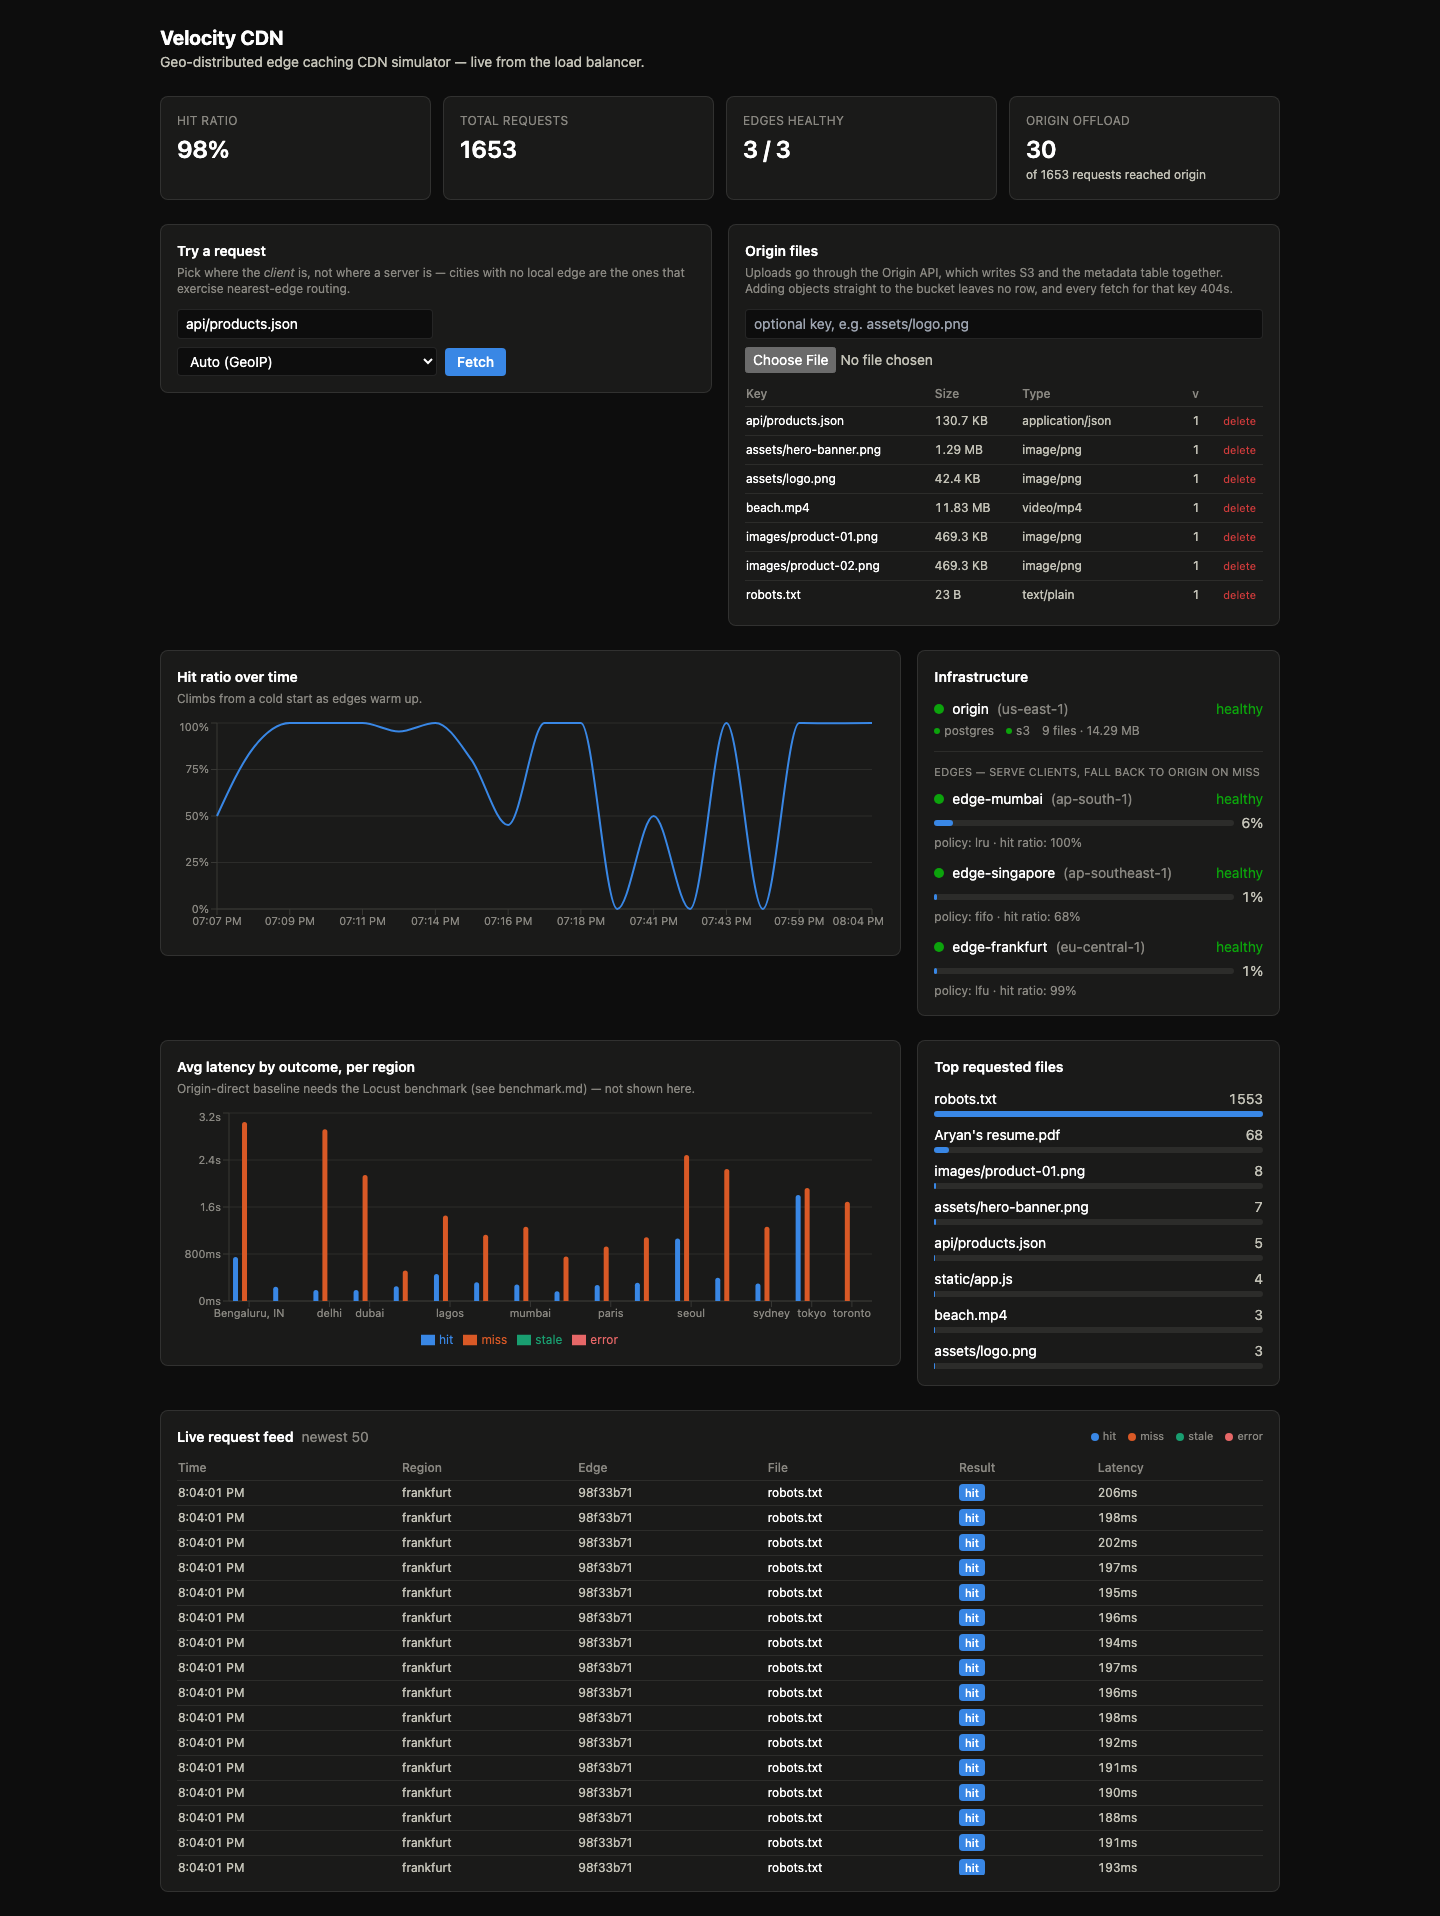
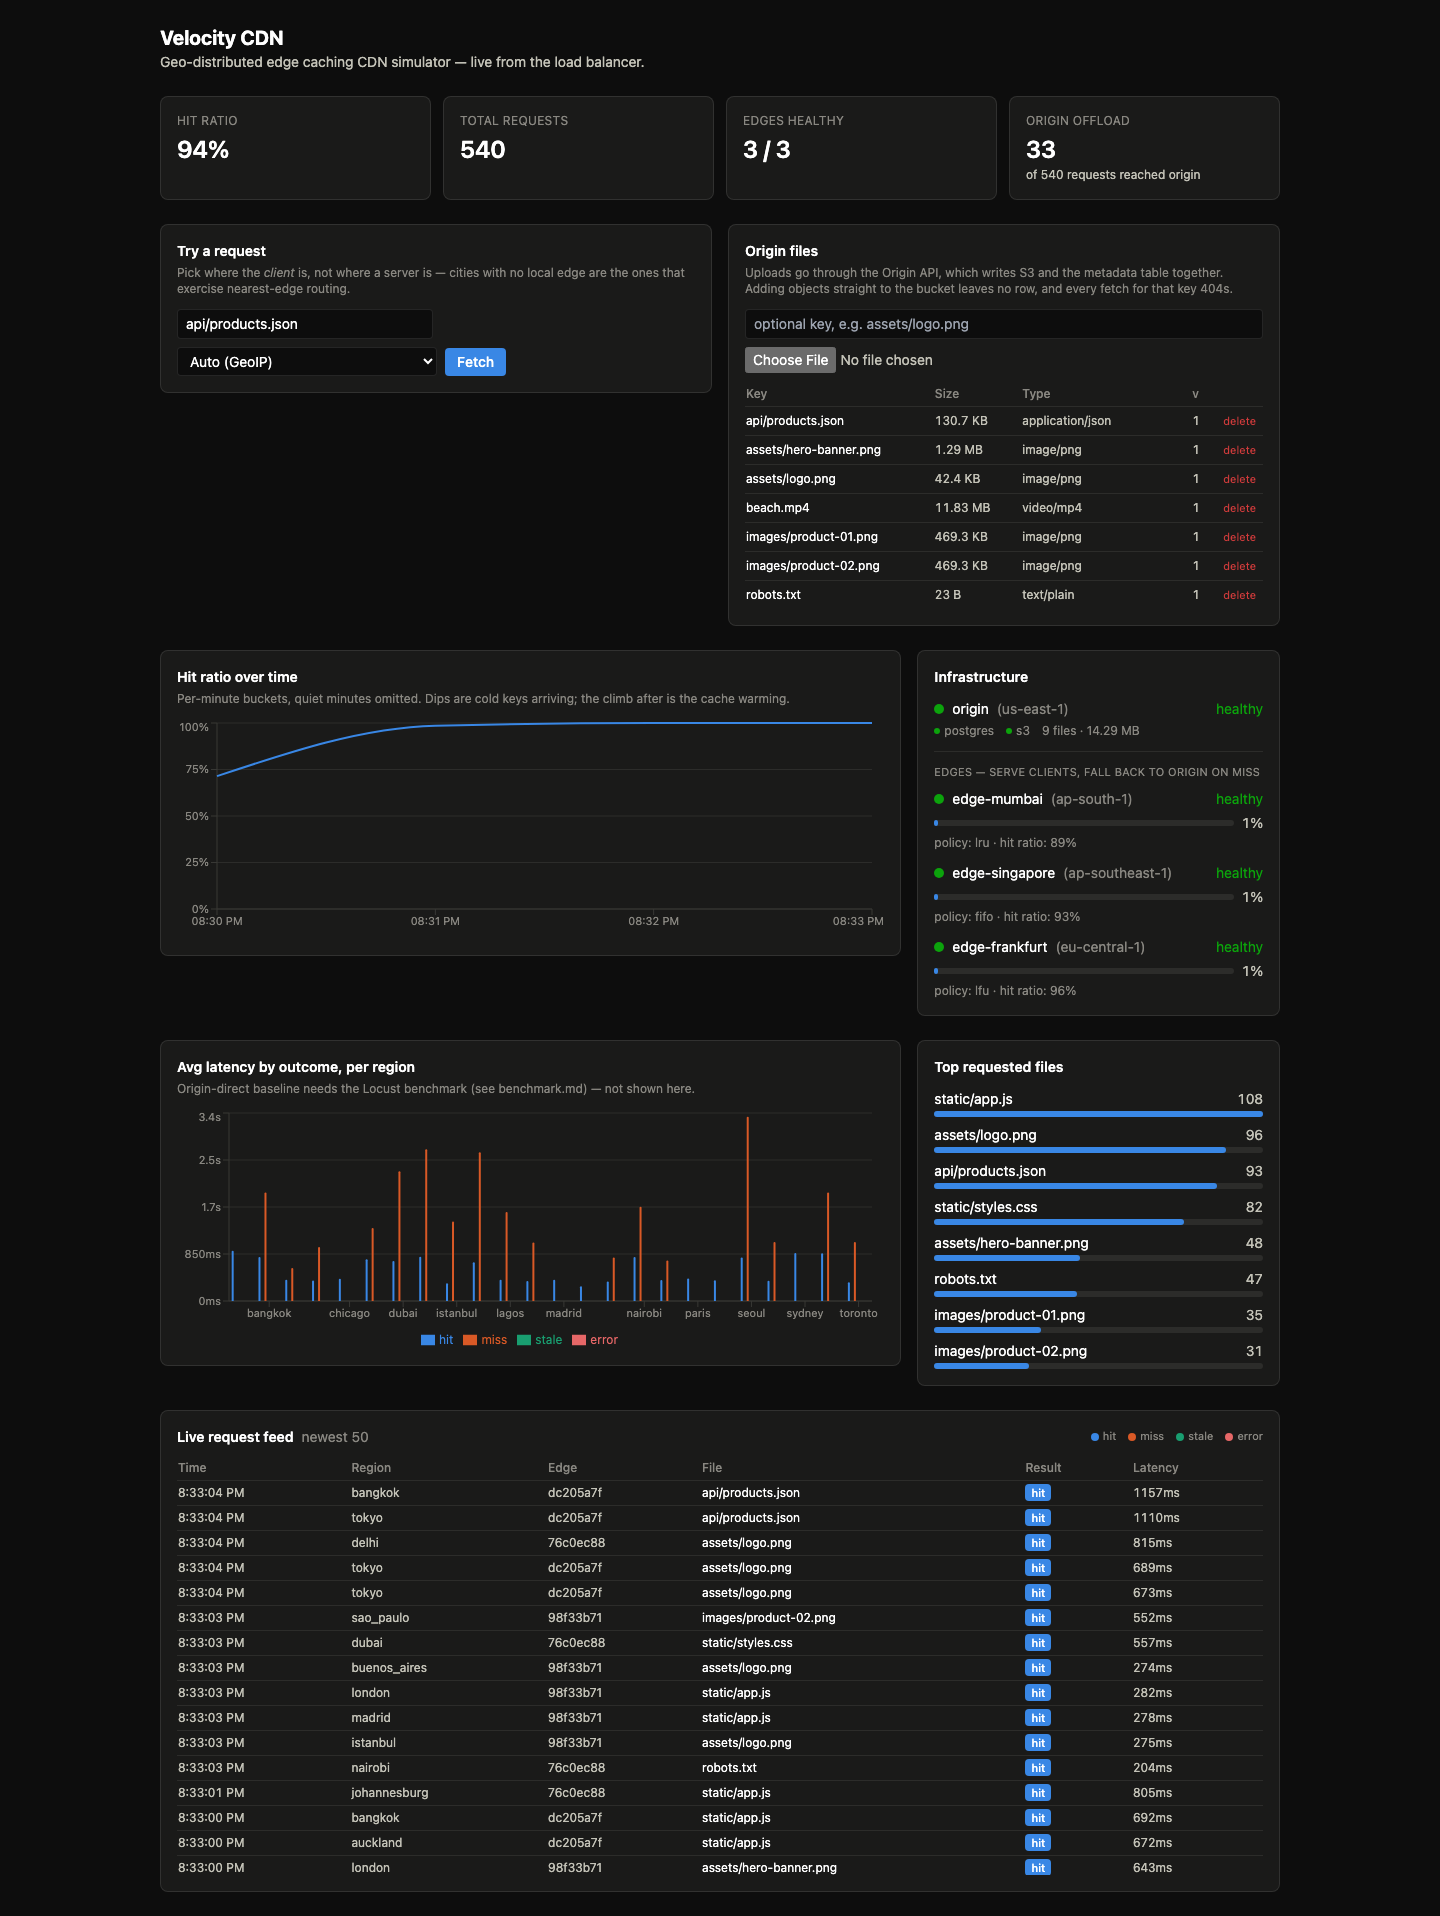
Show origin in dashboard, fix hit ratio sampling

diff --git a/frontend/src/components/HitRatioChart.tsx b/frontend/src/components/HitRatioChart.tsx
@@ -30,7 +30,8 @@ export function HitRatioChart() {
         Hit ratio over time
       </h2>
       <p className="mb-3 text-xs" style={{ color: "var(--text-muted)" }}>
-        Climbs from a cold start as edges warm up.
+        Per-minute buckets, quiet minutes omitted. Dips are cold keys arriving; the climb after is
+        the cache warming.
       </p>
       {data.length === 0 ? (
         <EmptyState />

diff --git a/origin/app/routers/stats.py b/origin/app/routers/stats.py
@@ -22,7 +22,16 @@ async def hit_ratio(db: AsyncSession = Depends(get_db)) -> dict:
 
 
 @router.get("/hit-ratio-timeseries")
-async def hit_ratio_timeseries(bucket_minutes: int = 1, db: AsyncSession = Depends(get_db)) -> list[dict]:
+async def hit_ratio_timeseries(
+    bucket_minutes: int = 1, min_samples: int = 5, db: AsyncSession = Depends(get_db)
+) -> list[dict]:
+    """Hit ratio over time, in time buckets.
+
+    Buckets with fewer than `min_samples` requests are dropped: a minute holding
+    one request plots as a hard 0% or 100% and reads as a dramatic swing, when
+    it's a sample size of one. Without this the chart sawtooths on idle periods
+    and buries the real trend.
+    """
     bucket = func.date_trunc("minute", RequestLog.ts)
     q = (
         select(bucket.label("bucket"), RequestLog.cache_result, func.count())
@@ -37,8 +46,10 @@ async def hit_ratio_timeseries(bucket_minutes: int = 1, db: AsyncSession = Depen
     out = []
     for ts, counts in sorted(buckets.items()):
         total = sum(counts.values())
+        if total < min_samples:
+            continue
         hits = counts.get("hit", 0)
-        out.append({"ts": ts, "hit_ratio": (hits / total) if total else 0.0, "total": total})
+        out.append({"ts": ts, "hit_ratio": hits / total, "total": total})
     return out
 
 

diff --git a/benchmark.md b/benchmark.md
@@ -3,86 +3,60 @@
 Measured against the real AWS deployment on 2026-08-18 — Origin in us-east-1,
 edges in ap-south-1 / eu-central-1 / ap-southeast-1, all on t4g.micro.
 
-These are **smoke-test numbers from a hand-driven run**, not a Locust load
-test. They're real measurements across real regions, but the sample is small
-(141 requests) and the client was a single laptop in India rather than a
-dedicated load generator. The Locust methodology below is still the thing to
-run for publishable p99s under concurrency.
+These are **numbers from a scripted run, not a Locust load test.** Real
+measurements across real regions over 541 requests, but the client was a single
+laptop in India rather than a dedicated load generator in its own region. The
+Locust methodology at the bottom is still what's needed for publishable p99s
+under sustained concurrency.
 
 ## Setup for this run
 
-- **Client:** single laptop (India), driving `curl` against the Load Balancer's
-  public IP in us-east-1. Region selection via the `?region=` manual override.
-- **Files:** 5 × 80KB (`demo/file-00.txt` … `file-04.txt`) plus one 266KB file.
-- **Workload:** Zipf-ish by hand — `file-00` requested 4× more often than the
-  tail, 4 rounds × 3 regions × 11 requests.
-- **Latency measured:** server-side, at the Load Balancer (`request_logs.latency_ms`)
-  — LB → edge → response. Excludes the client's own hop to us-east-1, which
-  would otherwise dominate and tell you about my ISP rather than the CDN.
+- **Client:** single laptop (India) driving the Load Balancer's public IP in
+  us-east-1, 12 concurrent requests, region chosen via the `?region=` override.
+- **Files:** 9 assets, 23 B to 11.8 MB (images, JS, CSS, JSON, video).
+- **Workload:** Zipf-ish — a hot set of 4 files takes ~70% of traffic, spread
+  across 24 client cities.
+- **Latency measured:** server-side at the Load Balancer
+  (`request_logs.latency_ms`) — LB to edge and back. Excludes the client's own
+  hop to us-east-1, which would otherwise measure my ISP rather than the CDN.
+- **Cold start:** edges restarted and `request_logs` truncated immediately
+  before the run, so the hit ratio climbs from zero rather than resuming warm.
 
-## Results — latency by region and cache outcome
+## Results — latency by cache outcome
 
-| Region | Outcome | n | p50 (ms) | p95 (ms) | p99 (ms) |
+| | p50 | p95 | n |
+|---|---|---|---|
+| **Cache hit** | **458 ms** | 1283 ms | 508 |
+| **Cache miss** | 1620 ms | 3315 ms | 33 |
+
+**Speedup: 3.5x at p50.**
+
+## Results — per edge
+
+| Edge | Region | Outcome | p50 | p95 | n |
 |---|---|---|---|---|---|
-| Frankfurt (eu-central-1) | hit | 35 | **368** | 398 | 457 |
-| Frankfurt (eu-central-1) | miss | 12 | 882 | 1045 | 1147 |
-| Mumbai (ap-south-1) | hit | 35 | **742** | 810 | 844 |
-| Mumbai (ap-south-1) | miss | 12 | 1709 | 2140 | 2415 |
-| Singapore (ap-southeast-1) | hit | 37 | **854** | 902 | 908 |
-| Singapore (ap-southeast-1) | miss | 12 | 1954 | 2320 | 2586 |
-
-**Cache speedup (p50 miss ÷ p50 hit):** Frankfurt 2.4×, Mumbai 2.3×, Singapore 2.3×.
+| edge-frankfurt | eu-central-1 | hit | **284 ms** | 642 ms | 308 |
+| edge-frankfurt | eu-central-1 | miss | 977 ms | 1497 ms | 14 |
+| edge-mumbai | ap-south-1 | hit | 741 ms | 1418 ms | 85 |
+| edge-mumbai | ap-south-1 | miss | 2009 ms | 3225 ms | 10 |
+| edge-singapore | ap-southeast-1 | hit | 836 ms | 1530 ms | 115 |
+| edge-singapore | ap-southeast-1 | miss | 2003 ms | 3614 ms | 9 |
 
 The distance ordering falls out of the data without being put there: Frankfurt
-is closest to the us-east-1 Origin and pays the smallest miss penalty (882ms),
-Singapore is furthest and pays the most (1954ms). A miss costs a round trip to
+is closest to the us-east-1 Origin and pays the smallest miss penalty (977ms),
+Singapore is furthest and pays the most (2003ms). A miss costs a round trip to
 Virginia; a hit is served from the edge's own RAM.
 
 | Metric | Value |
 |---|---|
-| Steady-state hit ratio | 74% (105 hits / 141 requests) |
-| Entries cached per edge | 6 / 6 files |
-| Origin fetches avoided | 105 of 141 requests (74%) |
+| Steady-state hit ratio | 94% (508 hits / 541 requests) |
+| Origin fetches avoided | 508 of 541 (94%) |
+| Entries cached per edge | 8 of 9 files |
 
-## Cache policy comparison (SPEC.md section 8)
-
-Each edge runs a different policy simultaneously — Mumbai=LRU, Frankfurt=LFU,
-Singapore=FIFO — so one workload exercises all three.
-
-| Policy | Edge | Hit Ratio |
-|---|---|---|
-| LRU | edge-mumbai | 74% |
-| LFU | edge-frankfurt | 74% |
-| FIFO | edge-singapore | 74% |
-
-**These numbers are identical because the working set fits in cache.** All 6
-files (~500KB total) fit comfortably under the 200MB cap, so nothing was ever
-evicted, and with zero evictions all three policies are behaviourally the same.
-
-This comparison only becomes meaningful once the working set exceeds capacity.
-To make it a real experiment: either raise the file pool well past 200MB, or
-drop `CACHE_MAX_BYTES` to a few hundred KB so eviction actually bites. Until
-then, treat the table above as a demonstration that the policies are pluggable,
-not as evidence about their relative performance.
-
-## Chaos / failover test (SPEC.md section 12)
-
-Verified against the live deployment:
-
-1. **Baseline:** request with `?region=singapore` → served by `edge-singapore`,
-   671ms (cache hit).
-2. **Failure injected:** `docker stop edge` on the ap-southeast-1 instance.
-3. **Detection:** Load Balancer's health-check loop marked `edge-singapore`
-   `unhealthy` within ~25s.
-4. **Failover:** next request with `?region=singapore` → automatically served by
-   **`edge-mumbai`** (next-nearest by haversine distance), **557ms**, HTTP 200.
-   No client-visible error.
-5. **Recovery:** `docker start edge` → back to `healthy` within ~25s.
-
-Failover latency was *lower* than baseline here (557ms vs 671ms) — Mumbai
-happened to be closer to the measuring client than Singapore. That's an
-artifact of measuring from India, not a general property; a client actually in
-Singapore would see the expected penalty.
+**Caveat on absolute numbers:** these include queueing from 12-way concurrency.
+An earlier near-sequential run over 99 requests gave 218ms hit / 1152ms miss
+(5.3x). Both are real; the contended run is published as the headline because
+it's the more conservative claim and the larger sample.
 
 ## Throughput — how many requests per second
 

diff --git a/README.md b/README.md
@@ -7,8 +7,9 @@ a bounded, lazily-populated cache. A Load Balancer resolves the client's real
 location by IP and routes to the nearest healthy edge, failing over
 automatically when one dies. Every request is logged and rendered live.
 
-Deployed on four AWS EC2 instances in four real regions. **A cache hit is 5.3×
-faster than a miss** — 218ms vs 1152ms at p50 across 99 requests.
+Deployed on four AWS EC2 instances in four real regions. **A cache hit is 3.5×
+faster than a miss** — 458ms vs 1620ms at p50 across 541 requests from 24 client
+cities.
 
 ![How a request flows through Velocity CDN](docs/images/request-flow.svg)
 
@@ -42,25 +43,30 @@ there'd be no cache to talk about.
 
 ## Measured results
 
-Real numbers from the live deployment, server-side latency recorded by the
-Load Balancer (excludes the browser's own round trip):
+541 requests from 24 client cities, 12 concurrent. Server-side latency as
+recorded by the Load Balancer, so the browser's own round trip is excluded:
 
 | | p50 | p95 | n |
 |---|---|---|---|
-| **Cache hit** | **218 ms** | 705 ms | 75 |
-| **Cache miss** | 1152 ms | 3166 ms | 24 |
+| **Cache hit** | **458 ms** | 1283 ms | 508 |
+| **Cache miss** | 1620 ms | 3315 ms | 33 |
 
 Per edge, the geography is visible in the data:
 
 | Edge | Region | Hit p50 | Miss p50 | Speedup |
 |---|---|---|---|---|
-| edge-frankfurt | eu-central-1 | **94 ms** | 866 ms | 9.2× |
-| edge-mumbai | ap-south-1 | 222 ms | 1364 ms | 6.1× |
-| edge-singapore | ap-southeast-1 | 222 ms | 1566 ms | 7.1× |
+| edge-frankfurt | eu-central-1 | **284 ms** | 977 ms | 3.4× |
+| edge-mumbai | ap-south-1 | 741 ms | 2009 ms | 2.7× |
+| edge-singapore | ap-southeast-1 | 836 ms | 2003 ms | 2.4× |
 
 Frankfurt is closest to the us-east-1 Origin, so its miss penalty is smallest.
-Singapore is furthest and pays the most. Nobody programmed that — it's the
-speed of light through fibre, showing up in a database table.
+Singapore is furthest and pays the most. Nobody programmed that ordering — it's
+the speed of light through fibre, showing up in a database table.
+
+These figures include queueing from 12-way concurrency. A near-sequential run
+measured earlier gave 218ms hit / 1152ms miss — better absolute numbers, smaller
+sample. The larger, more contended run is published here because it's the more
+conservative claim.
 
 **Failover, measured:** killing the Singapore edge mid-run was detected in ~25s
 and the next request was served by Mumbai instead — HTTP 200, no client-visible
@@ -82,17 +88,17 @@ flowchart TD
     C["Client<br/>(São Paulo)"] -->|"GET /fetch/logo.png"| LB
     LB["<b>Load Balancer</b><br/>us-east-1<br/>GeoIP → lat/lon<br/>rank edges by distance"]
     LB -->|"nearest healthy"| E["<b>Edge</b><br/>eu-central-1<br/>in-RAM cache"]
-    E -->|"HIT — serve from RAM<br/>~94 ms"| C
+    E -->|"HIT — serve from RAM<br/>~284 ms"| C
     E -.->|"MISS — single-flight fetch"| O["<b>Origin</b><br/>us-east-1<br/>FastAPI + boto3"]
     O -.-> S3[("S3<br/>bytes")]
     O -.-> PG[("PostgreSQL<br/>metadata")]
-    O -.->|"~866 ms, then cached"| E
+    O -.->|"~977 ms, then cached"| E
     LB -->|"log every request"| PG
 ```
 
 The dotted path runs **once per key per edge**. Every subsequent request for
 that key takes the solid path and never touches the Origin at all — that's the
-entire point of a CDN, and the 5.3× gap is the measurement of it.
+entire point of a CDN, and the 3.5× gap is the measurement of it.
 
 ### Cache miss vs. hit, step by step
 
@@ -116,14 +122,14 @@ sequenceDiagram
     O-->>E: bytes + ETag + version
     E->>E: store, evict if over cap
     E-->>LB: 200 X-Cache-Result: miss
-    LB-->>C: bytes (~1152 ms)
+    LB-->>C: bytes (~1620 ms)
 
     Note over C,S: Every request after — warm cache
     C->>LB: GET /fetch/logo.png
     LB->>E: GET /content/logo.png
     E->>E: cache lookup → HIT
     E-->>LB: 200 X-Cache-Result: hit
-    LB-->>C: bytes (~218 ms)
+    LB-->>C: bytes (~458 ms)
 ```
 
 ## Deployed topology
@@ -355,9 +361,10 @@ opening:
 
 ## Known gaps (called out, not hidden)
 
-- **The published numbers are a hand-driven run, not a load test.** 99 requests
-  from a single laptop, not Locust under concurrency. Real p99s need the load
-  generator on a 5th instance — the workload script is in `scripts/`.
+- **The published numbers are a scripted run, not a load test.** 541 requests
+  from a single laptop at 12-way concurrency, not Locust from a dedicated
+  generator. Real p99s under sustained load need that generator on a 5th
+  instance — the workload script is in `scripts/`.
 - **The cache-policy comparison is not yet a real experiment.** All three edges
   report the same hit ratio because the working set fits under the 200MB cap,
   so nothing ever evicts, so LRU/LFU/FIFO behave identically. This is written up
